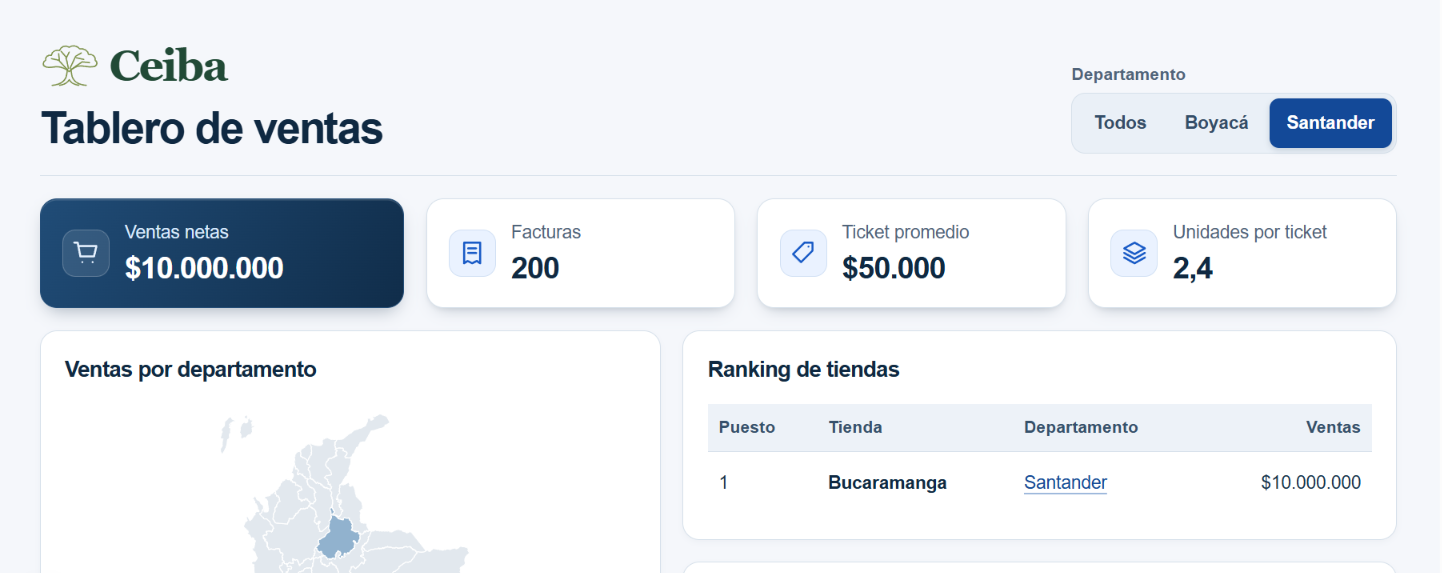
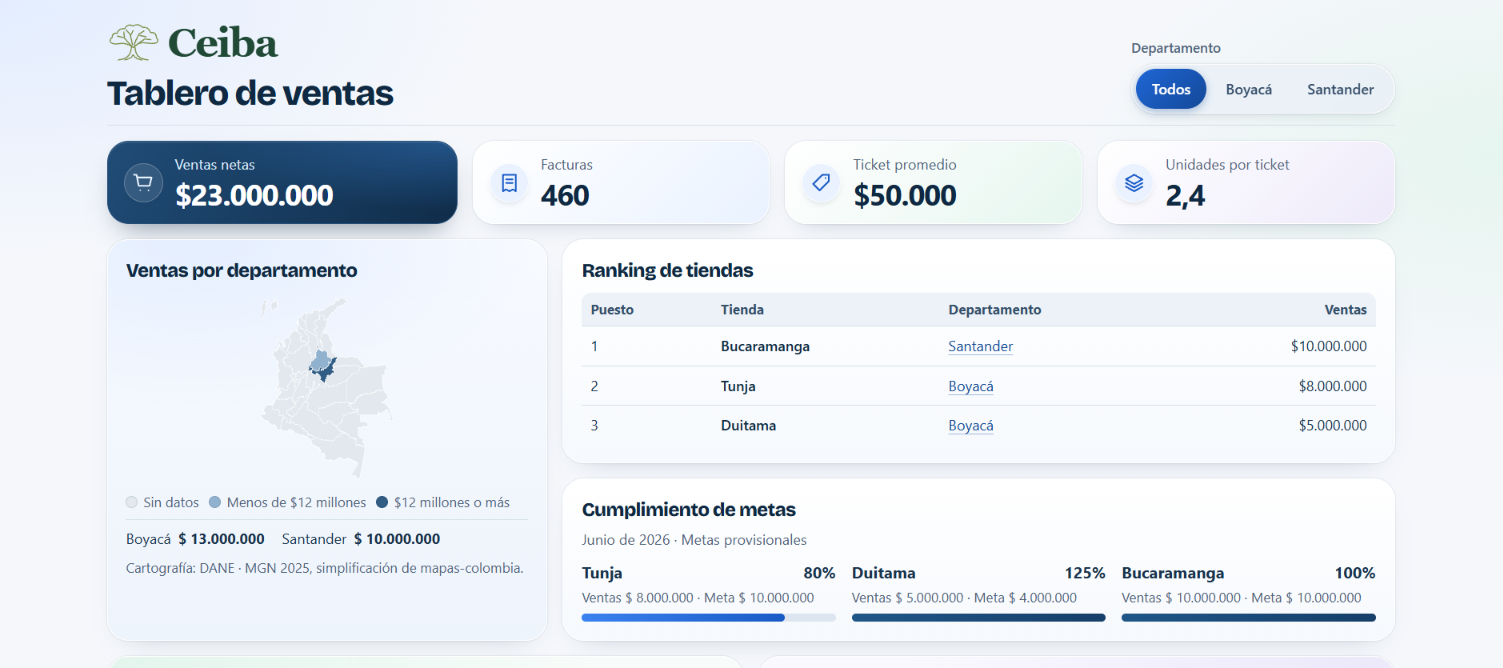
docs(dashboard): document all eight views and update screenshots

diff --git a/docs/bitacora_desarrollo_ceiba.md b/docs/bitacora_desarrollo_ceiba.md
@@ -98,10 +98,31 @@ Con el prototipo abierto, seleccionen cada opción del filtro **Departamento** y
 | Boyacá | $13.000.000 | 260 | $50.000 | 2,4 | Tunja |
 | Santander | $10.000.000 | 200 | $50.000 | 2,4 | Bucaramanga |
 
+## 27–28 de noviembre de 2026 · Tres vistas nuevas y ajuste del diseño
+
+Completé las tres vistas que estaban pendientes. Con este avance, el tablero reúne ocho vistas con datos de ejemplo.
+
+### 6. Productos
+
+Incorporé la participación de marca propia y dos tablas de ventas: una por categoría y otra por marca. Al seleccionar un departamento, la gerencia puede consultar qué categorías y marcas concentran las ventas de sus tiendas.
+
+### 7. Ventas por día y hora
+
+Agregué una matriz que cruza los días de la semana con las horas disponibles en los datos de ejemplo. Cada celda suma las ventas del período para esa combinación. Por ejemplo, «Martes · 17:00» reúne las ventas registradas a esa hora en los martes del mes.
+
+La vista permite filtrar por tienda y tipo de día. El color más oscuro identifica el mayor valor acumulado de la selección y el guion indica una combinación sin datos.
+
+### 8. Tiendas abiertas
+
+Incorporé una consulta por fecha y hora de Colombia. La vista muestra cuántas tiendas de la selección están abiertas, el horario que corresponde a cada una ese día y su estado a la hora consultada. Los horarios son de ejemplo.
+
+### Diseño e integración
+
+Ajusté la distribución y el espaciado de las secciones para facilitar la comparación de cifras y la lectura de las tablas. Conservé la identidad visual de Ceiba, el filtro por departamento y el énfasis en ventas netas.
+
+Las ocho vistas funcionan con datos locales de ejemplo. El siguiente paso de integración es contrastar los campos y cálculos del frontend con una respuesta de prueba de la API.
+
 ### Próximos pasos
 
-- [ ] Recargar el tablero y confirmar si se resolvió el aviso del mapa.
-- [ ] Repetir las tres pruebas del filtro con la nueva distribución y revisar la vista en celular.
 - [ ] Revisar el contrato de la API con Aura y validar los cálculos con una respuesta de ejemplo acordada.
-- [ ] Desarrollar las tres vistas pendientes: productos, ventas por día y hora, y tiendas abiertas.
 - [ ] Subir a `Viviana_branch` los cambios de esta jornada y publicar una versión de prueba para el equipo.

diff --git a/README.md b/README.md
@@ -31,6 +31,9 @@ Abre la dirección que aparece en la terminal, normalmente `http://localhost:300
 | Canales y medios de pago | Ventas por canal y distribución del monto pagado por medio de pago. |
 | Cumplimiento de metas | Ventas de cada tienda frente a su meta provisional de junio de 2026. |
 | Mapa por departamento | Distribución geográfica de las ventas y montos de los departamentos seleccionados. |
+| Productos | Participación de marca propia y ventas desglosadas por categoría y por marca. |
+| Ventas por día y hora | Ventas acumuladas por día de la semana y hora, con filtros de tienda y tipo de día. |
+| Tiendas abiertas | Cantidad y estado de las tiendas para una fecha y hora de Colombia, con el horario de cada tienda. |
 
 ## Prueba rápida
 
@@ -38,6 +41,6 @@ Selecciona **Boyacá**. Las ventas netas deben mostrar **$13.000.000** y el rank
 
 ## Desarrollo y diseño
 
-El tablero está construido con Next.js, React, JavaScript y CSS Modules. La página principal se encuentra en `app/page.js` y sus estilos en `app/page.module.css`.
+El tablero está construido con Next.js, React, JavaScript y CSS Modules. La [página principal](dashboard/app/page.js) reúne las ocho vistas y controla el filtro por departamento. Los [estilos del tablero](dashboard/app/page.module.css) definen su distribución visual.
 
-- [Bitácora de desarrollo por fecha](docs/bitacora_desarrollo_ceiba.md)
+- [Bitácora de desarrollo por fecha](docs/bitacora_desarrollo_ceiba.md) 
